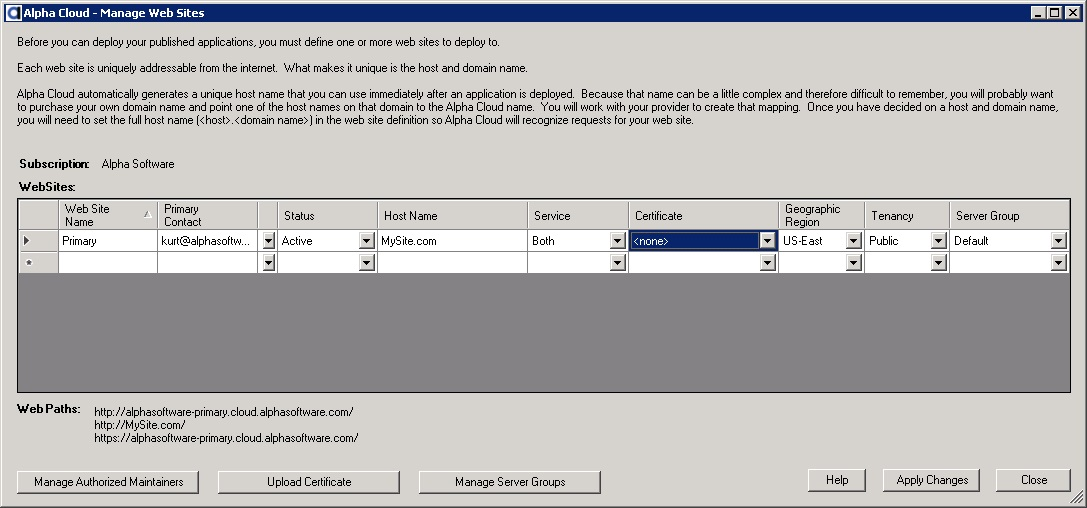
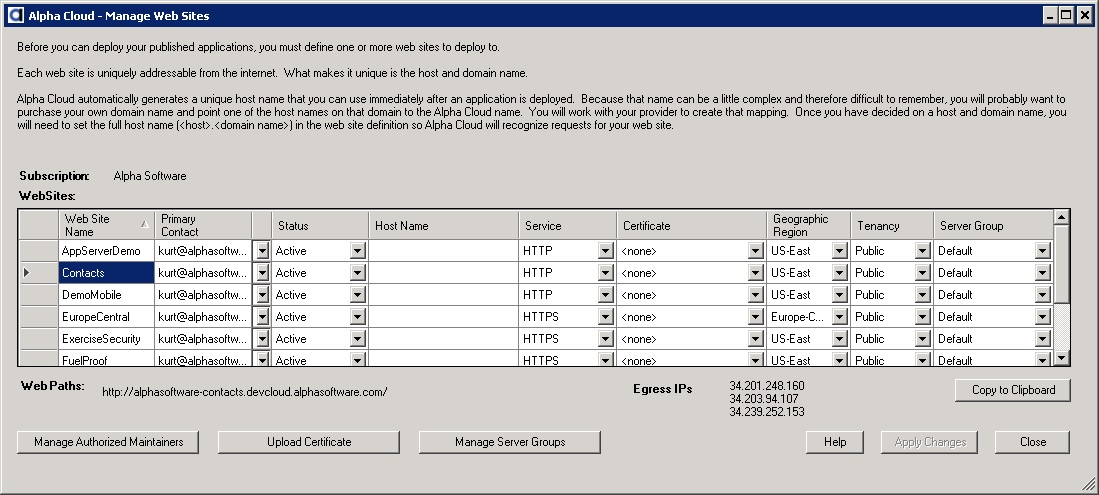
Update Alpha Cloud documentation to include Egress IPs for web sites.

diff --git a/helpfiles/Guides/Beta Software/Alpha Cloud/Alpha Anywhere Developers Guide/Managing Web Sites.html b/helpfiles/Guides/Beta Software/Alpha Cloud/Alpha Anywhere Developers Guide/Managing Web Sites.html
@@ -113,10 +113,16 @@ the accounting application would be referenced using the URL "http://myhost.myco
 <p class="fullsizeimagelink"><a href="ScreenShots/ManageWebSites.jpg">View a Full Sized Image</a></p>
 </ol>
 <br/>
-<p><strong>Note:</strong> All valid web paths are displayed near the bottom of the dialog for the selected web site.
+<p><strong>Notes:</strong><br/>
+<ol>
+<li>All valid web paths are displayed near the bottom of the dialog for the selected web site.
 You can copy any of the paths to the clipboard and paste them into a browser to access your deployed applications.
 You will see that although both (HTTP and HTTPS) are selected as services there is no HTTPS path for MySite.com.  
-This is because no certificate has been uploaded.	
+This is because no certificate has been uploaded.</li>
+<li>In some cases, you may need to provide an IP address to allow your running application to access a site on the internet or behind your own firewall.  Your deployed application may run on one or more servers distributed across availability zones (data centers).  When you access the internet from your running server, the Egress (source) IP address will depend on which zone your server is running in.  There can typically be up to three availability zones.  The Egress IPs textbox provides a list of IP addresses from which your web application may access the internet.</li>
+<li>You can get a summary of the currently selected web site properties in text form by clicking "Copy to Clipboard".  The text includes the web paths and the Egress IPs.</li>
+</ol>
+<br/>
 </p>
 <br/>
 </body>
